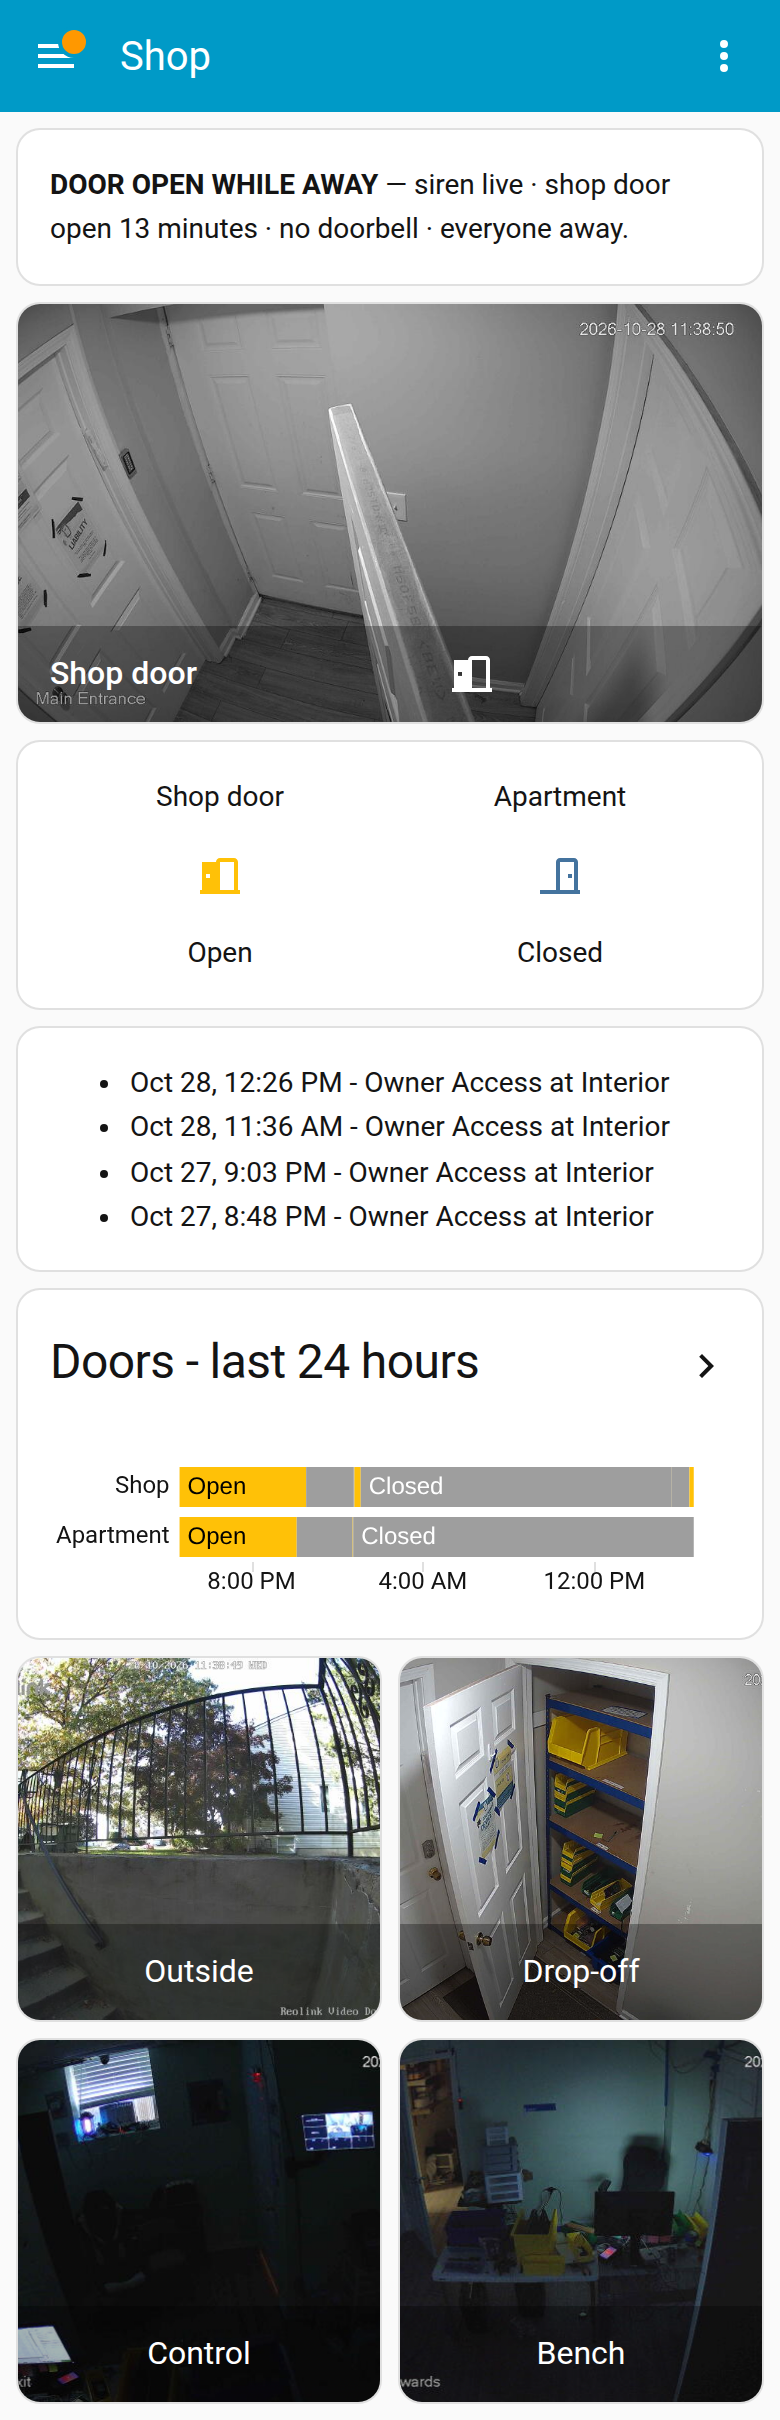
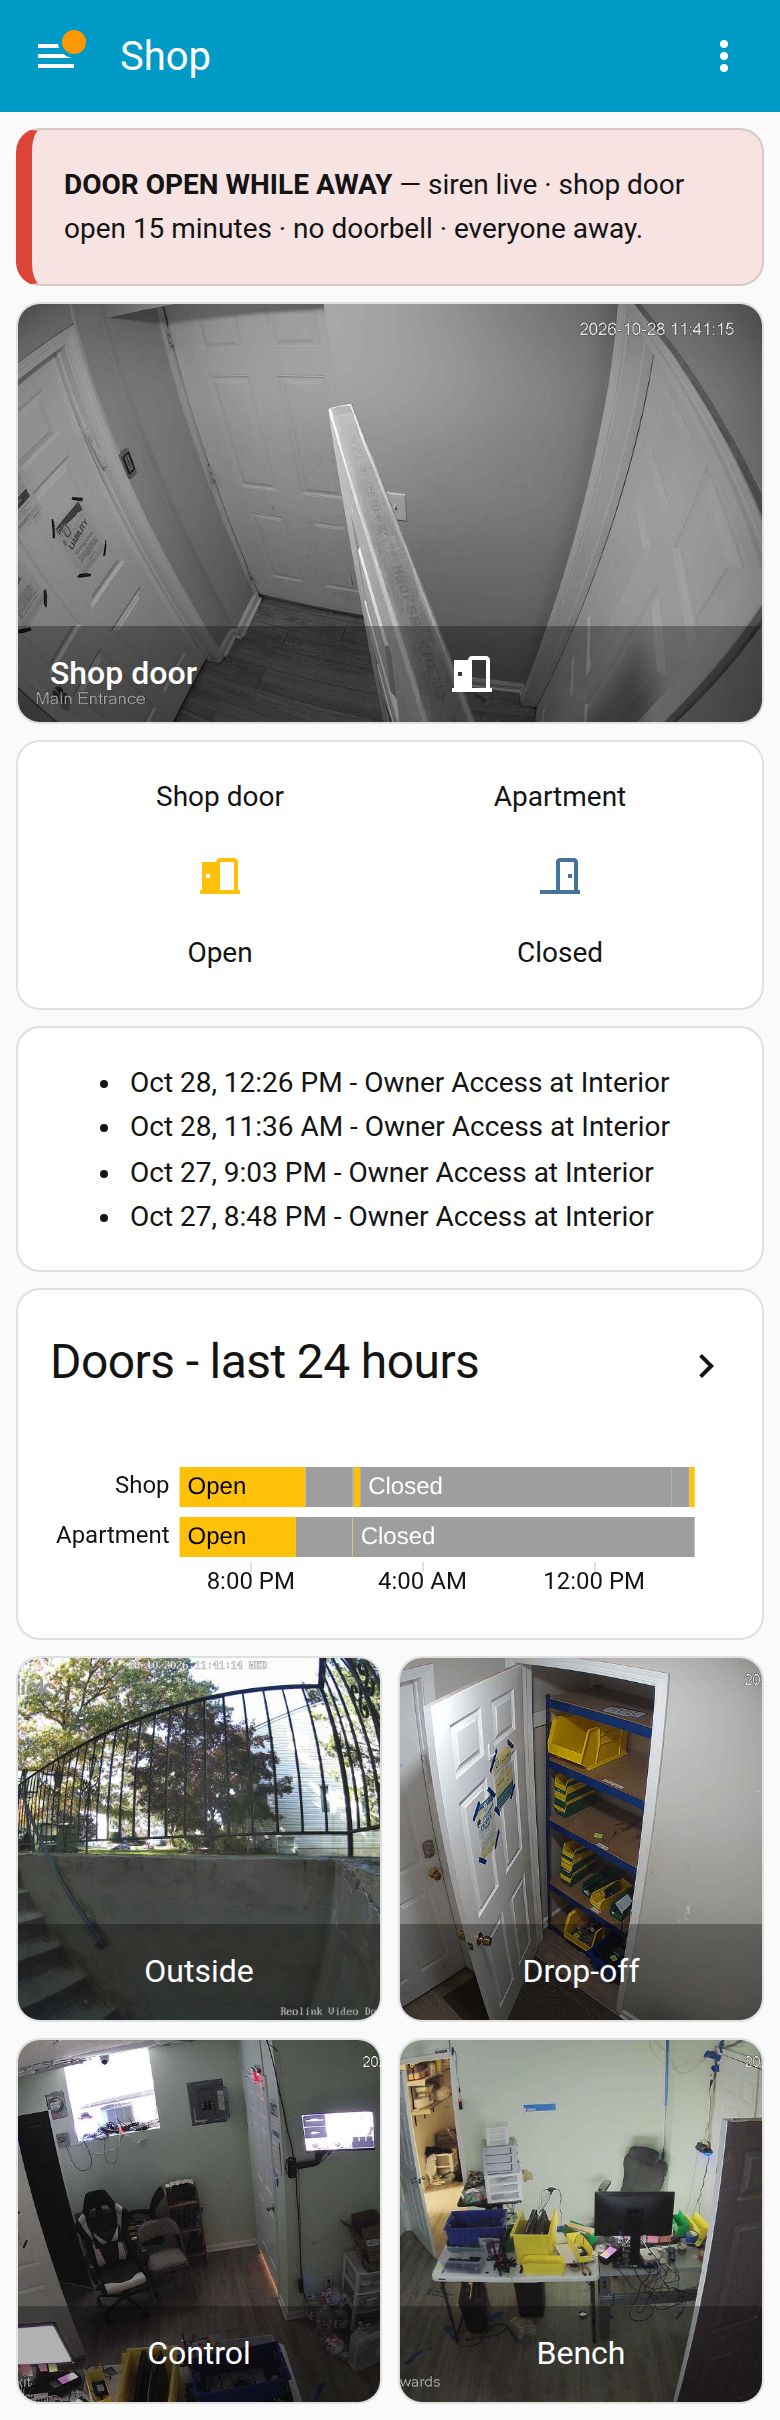
security: round 9 - an alarm now looks like an alarm; small phone and dark mode both verified by render
Three findings from rendering rather than reading.

1. The banner read identically whether the building was quiet or a door stood open - same weight, colour and height,
   the difference entirely in the words. The design review predicted exactly this. It now carries a coloured left
   edge and tint driven by the same conditions as the sentence: red for intrusion / drill switch / lockdown / door
   open while away; amber for a guest code or a door open; green otherwise. Verified in the dark-mode render.

   No new dependency: card_mod is a key on a standard markdown card, not a custom: card type. If card-mod is removed,
   HA ignores the unknown key and the banner renders as before - the style degrades to nothing, the card never
   breaks. Preflight still reports 0 custom cards.

2. Dark mode works at 390x844: banner legible, doors in words, graph bands and axis visible, all four camera stills
   render. Nothing needed changing.

3. A 360x640 phone works: the banner wraps to three lines, and the door row, keypad, graph and 2x2 camera grid all
   fit without clipping. Nothing needed changing.

Live evidence the tiles are real: mid-render the Bench tile showed a worker at the bench and the keypad gained a line
at 12:41 PM.

Screenshots committed: shop-view-390.png, shop-view-390-dark.png, shop-view-360.png.

Changed region(s): [[0.0, 0.8368, 0.9846, 0.9917], [0.0, 0.031, 0.9846, 0.124], [0.0308, 0.6818, 0.3692, 0.7438]]

diff --git a/docs/security-and-evolution/ha-security/scripts/ha-shop-dashboard.py b/docs/security-and-evolution/ha-security/scripts/ha-shop-dashboard.py
@@ -180,8 +180,36 @@ def config(use_target: bool = False) -> dict:
     """
     logbook_titles: dict = {}
 
+    # A COLOURED EDGE SO AN ALARM LOOKS LIKE AN ALARM (2026-10-28). The render showed the
+    # banner reading identically whether the building was quiet or a door was open with
+    # nobody home -- same weight, same colour, same height. That is the one place in this
+    # layout where typography alone fails. card-mod styles the standard markdown card, so if
+    # card-mod is ever missing the style is simply ignored and the card still works: this
+    # adds no custom-card dependency to the view.
+    banner = {
+        "type": "markdown",
+        "content": BANNER,
+        "card_mod": {"style": """ha-card {
+  {% set intr = is_state('input_boolean.phoenix_intrusion_active','on') %}
+  {% set test = is_state('input_boolean.phoenix_intrusion_test_mode','on') %}
+  {% set lock = is_state('input_boolean.phoenix_access_control_lockdown','on') %}
+  {% set away = is_state('binary_sensor.phoenix_everyone_away','on') %}
+  {% set shop = is_state('binary_sensor.phoenix_control_room_interior_door_contact','on') %}
+  {% set apt = is_state('binary_sensor.phoenix_control_room_exterior_door_contact','on') %}
+  {% set guest = is_state('input_boolean.phoenix_house_guest_mode_active','on') %}
+  {% if intr or test or lock or (away and (shop or apt)) %}
+    border-left: 8px solid var(--error-color);
+    background: rgba(219, 68, 55, 0.12);
+  {% elif guest or shop or apt %}
+    border-left: 8px solid var(--warning-color);
+    background: rgba(255, 152, 0, 0.10);
+  {% else %}
+    border-left: 8px solid var(--success-color);
+  {% endif %}
+}"""},
+    }
     cards: list = [
-        {"type": "markdown", "content": BANNER},
+        banner,
         # the shop door: the threshold where customers appear, and the best face view
         {"type": "picture-glance", "title": "Shop door",
          "camera_image": "camera.cam_front_hallway_main",

diff --git a/docs/security-and-evolution/ha-security/71-PAGING-IMPLEMENTATION.md b/docs/security-and-evolution/ha-security/71-PAGING-IMPLEMENTATION.md
@@ -1017,3 +1017,37 @@ full height** before capture.
 **`DOOR OPEN WHILE AWAY`** without anyone touching it. That is the round-1 branch doing its job on real data.
 
 **Screenshot:** `dashboards/shop-view-390.png` (780×2420 at 2× DPR).
+
+## 29. Round 9: an alarm now looks like an alarm, and the layout survives a small phone and dark mode — 2026-10-28
+
+The render loop makes these checks cheap: change, render at phone size, look at the picture. Three findings this round.
+
+**1. The banner read identically whether the building was quiet or a door stood open.** Same weight, same colour, same
+height — the difference was entirely in the words. That was the one place in this layout where typography alone failed,
+and the design review had predicted it. It now carries a **coloured left edge and a tint**, driven by the same
+conditions as the sentence itself:
+
+| condition | edge |
+|---|---|
+| intrusion, drill switch, lockdown, or a door open while marked away | **red** (`--error-color`, 12% tint) |
+| guest code active, or a door open | **amber** (`--warning-color`, 10% tint) |
+| everything else | **green** |
+
+Verified in the dark-mode render: the banner shows an amber edge with a warm tint while the shop door stands open, and
+the rest of the page is unaffected.
+
+**Why this does not add a dependency:** `card_mod` is a *key on a standard markdown card*, not a `custom:` card type.
+If card-mod is ever removed, Home Assistant ignores the unknown key and the banner renders exactly as before — the
+style degrades to nothing, the card never breaks. The preflight still reports **0 custom cards**.
+
+**2. Dark mode works.** Rendered with `color_scheme='dark'` at 390×844: the banner text is legible, the door tiles
+read `Open`/`Closed` in words, the graph bands and axis are visible, and all four camera stills render. Nothing needed
+changing.
+
+**3. A 360×640 phone works.** Rendered at that size: the banner wraps to three lines instead of two, the door row, the
+keypad list, the graph and the 2×2 camera grid all fit without clipping or overlap. Nothing needed changing.
+
+**Live evidence the tiles are real:** mid-render, the Bench tile showed a worker sitting at the repair bench, and the
+keypad list gained a new line at 12:41 PM — both are live data arriving while the screenshots were taken.
+
+**Screenshots:** `dashboards/shop-view-390.png`, `shop-view-390-dark.png`, `shop-view-360.png`.
